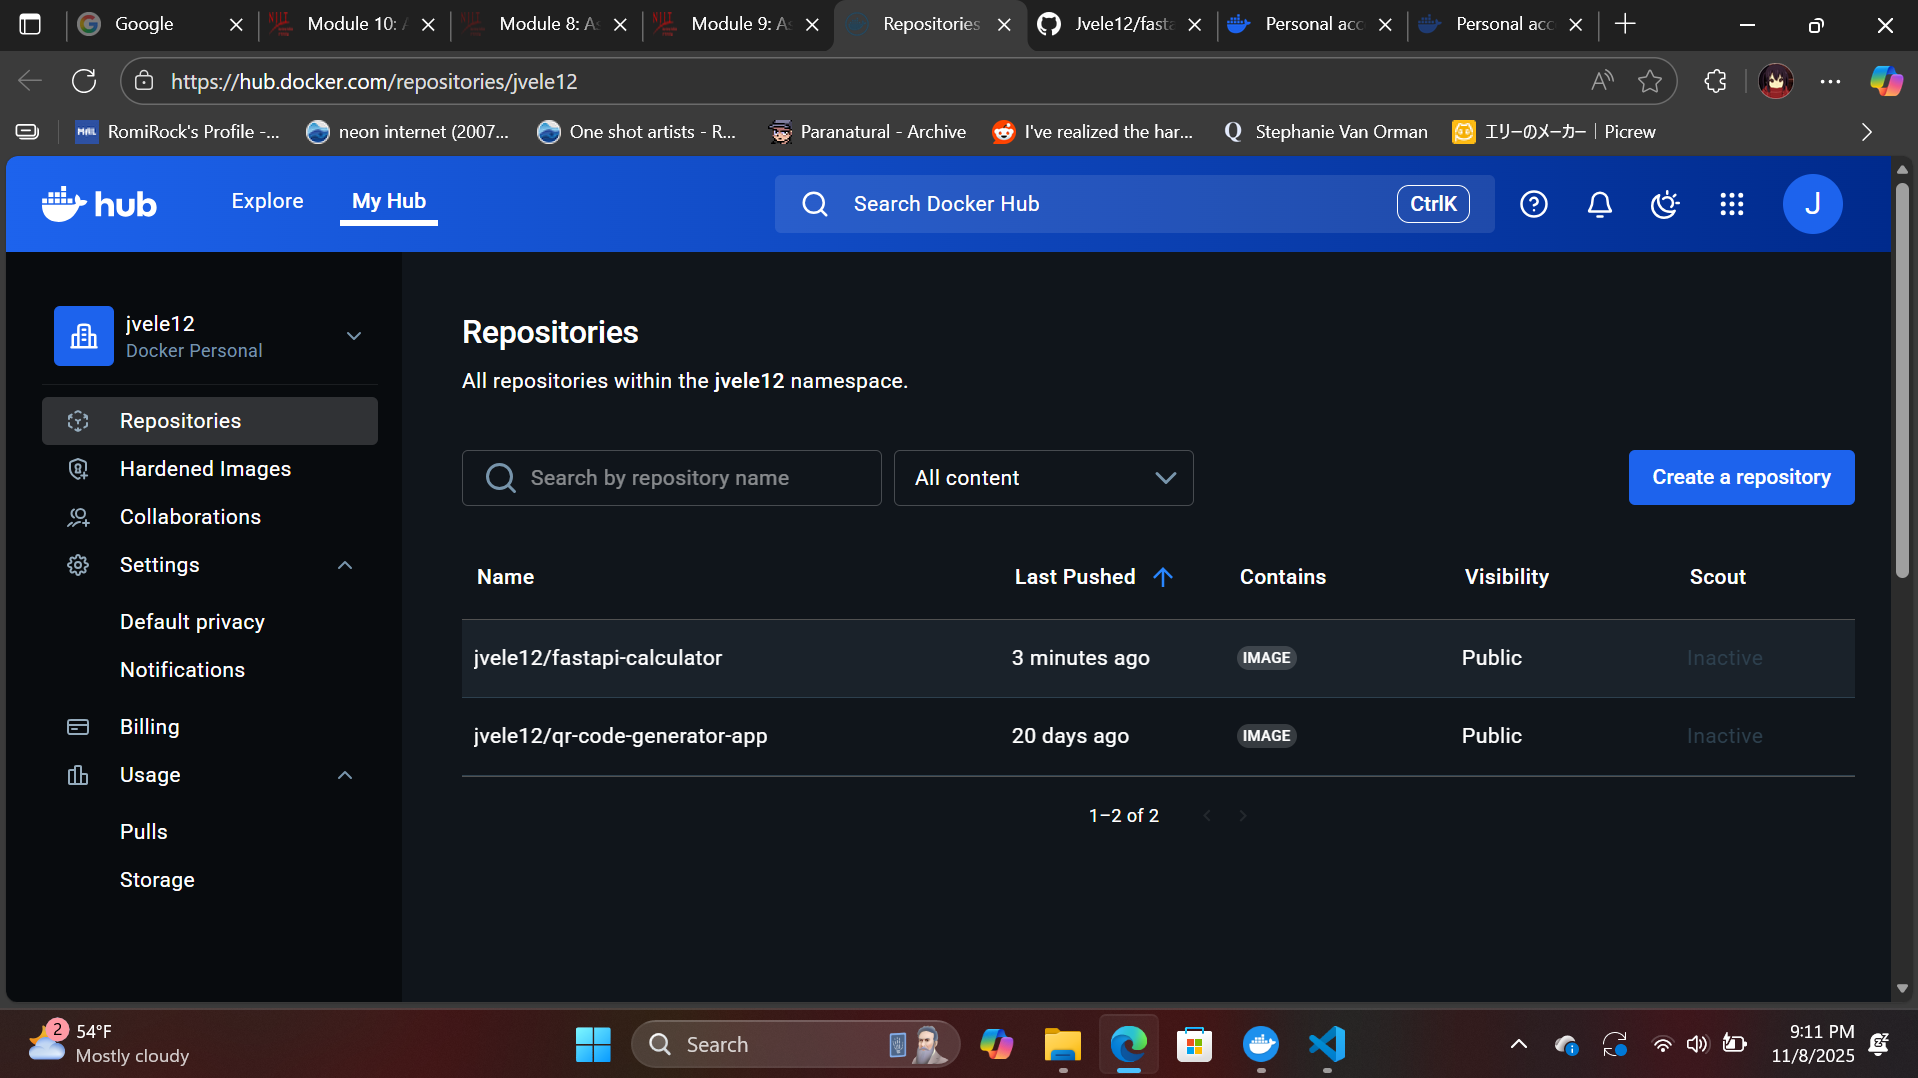
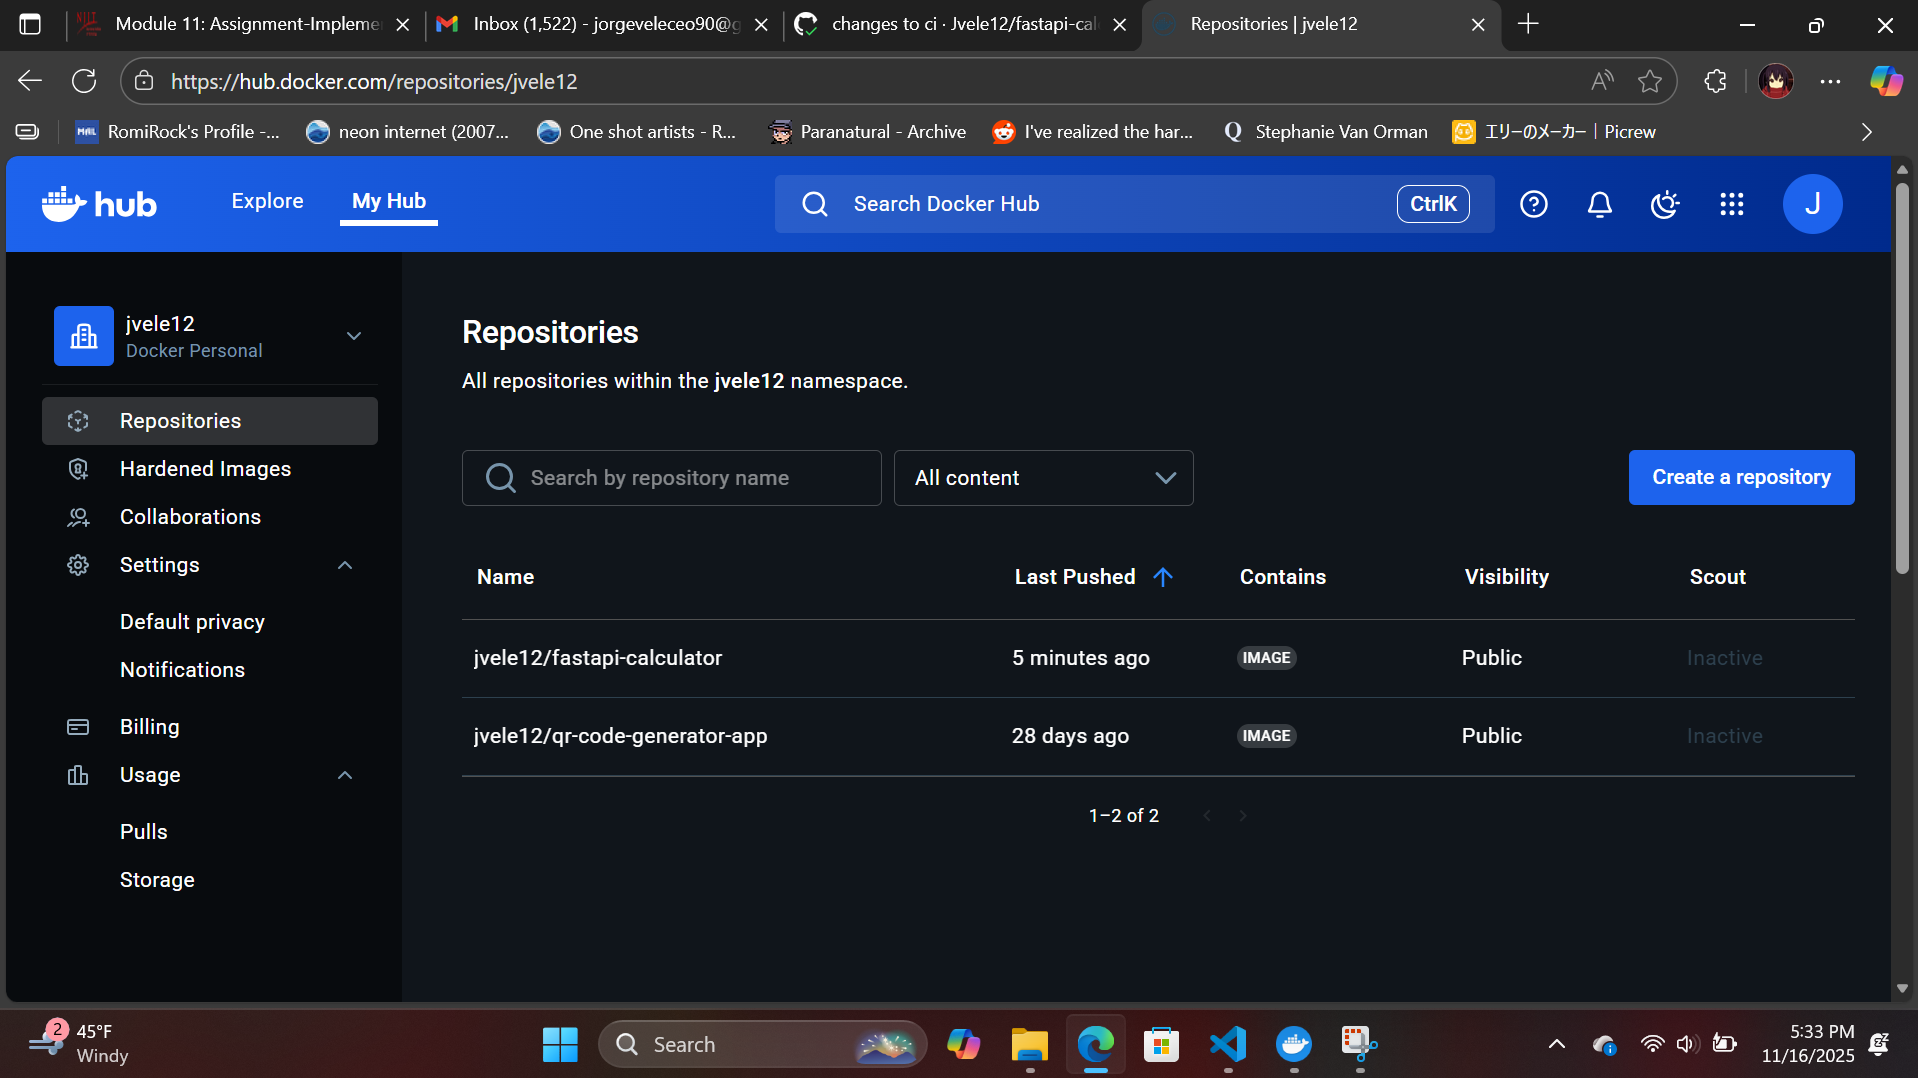
added changes to Schemas

diff --git a/app/schemas.py b/app/schemas.py
@@ -3,10 +3,12 @@ from typing import Literal, Optional
 from datetime import datetime
 from .models import CalculationType
 
+
 class UserCreate(BaseModel):
     username: str
     email: EmailStr
     password: str
+
 
 class UserRead(BaseModel):
     id: int
@@ -16,12 +18,19 @@ class UserRead(BaseModel):
 
     model_config = ConfigDict(from_attributes=True)
 
+
+class UserLogin(BaseModel):
+    email: EmailStr
+    password: str
+
+
 CalculationTypeLiteral = Literal["add", "sub", "multiply", "divide"]
+
 
 class CalculationCreate(BaseModel):
     a: float
     b: float
-    type: CalculationType 
+    type: CalculationType
 
     @model_validator(mode="after")
     def check_divide_by_zero(self):
@@ -29,13 +38,26 @@ class CalculationCreate(BaseModel):
             raise ValueError("b cannot be zero for divide")
         return self
 
+
+class CalculationUpdate(BaseModel):
+    a: Optional[float] = None
+    b: Optional[float] = None
+    type: Optional[CalculationType] = None
+
+    @model_validator(mode="after")
+    def check_divide_by_zero_on_update(self):
+        if self.type == CalculationType.divide and self.b == 0:
+            raise ValueError("b cannot be zero for divide")
+        return self
+
+
 class CalculationRead(BaseModel):
     model_config = ConfigDict(from_attributes=True)
 
     id: int
     a: float
     b: float
-    type: str
+    type: str              
     result: Optional[float] = None
     created_at: datetime
     user_id: Optional[int] = None
